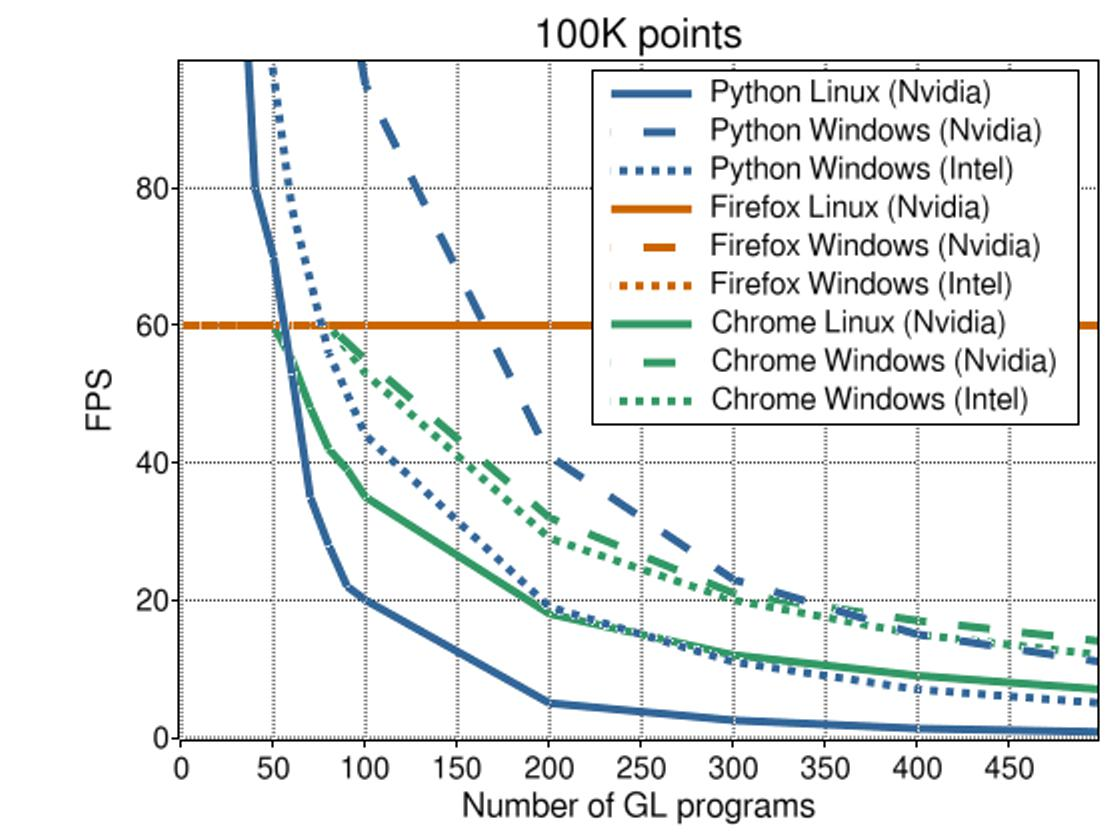
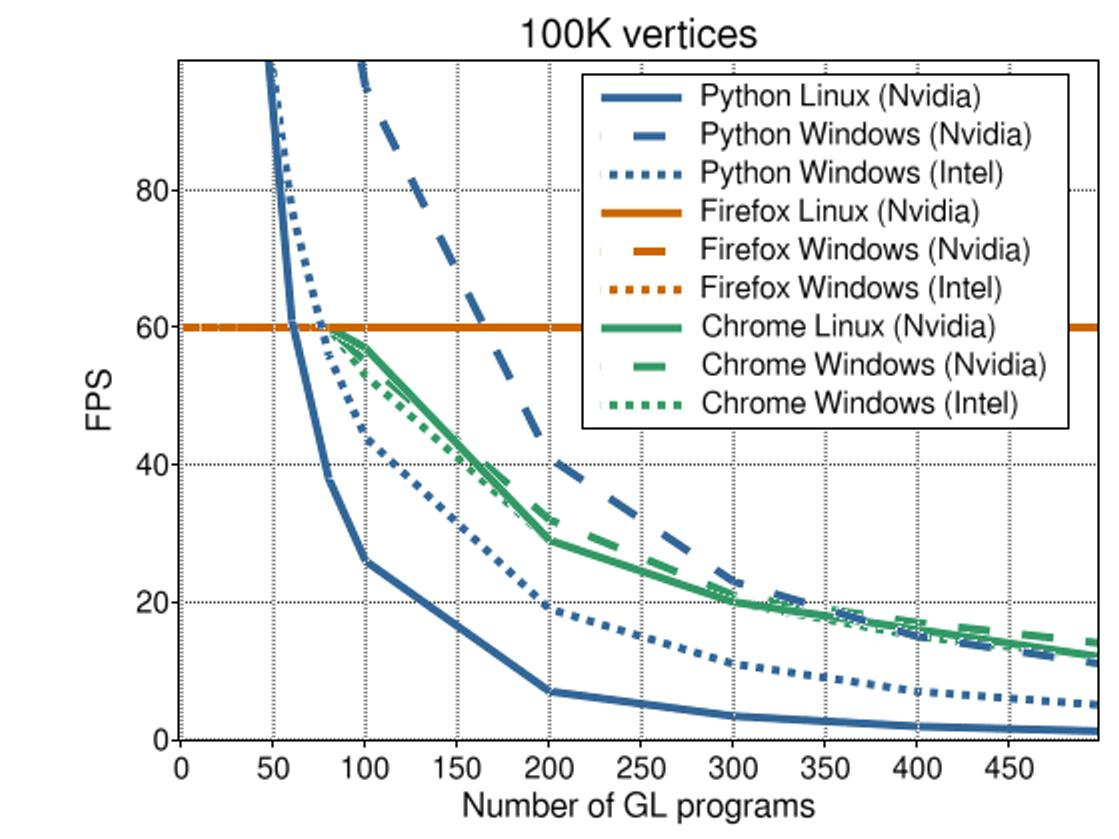
redid some measurements on Linux. plot new results

diff --git a/benchmark_collections_vis.py b/benchmark_collections_vis.py
@@ -5,13 +5,14 @@ import visvis as vv
 from collections import OrderedDict
 
 measurements_100k = OrderedDict()
-measurements_100k['Python Linux (Nvidia)'] = {1:2200, 10:500, 20:250, 30:130, 40:80, 50:70, 60:53, 70:35, 80:28, 90:22, 100:20, 200:5, 300:2.5, 400:1.3, 500:0.8}
+measurements_100k['Python Linux (Nvidia)'] = {1:2700, 10:760, 20:337, 40:121, 60:61, 80:38, 100:26, 200:7, 300:3.4, 400:1.9, 500:1.2}
 measurements_100k['Python Windows (Nvidia)'] = {1:1500, 10:712, 20:470, 40:248, 60:170, 80:125, 100:95, 200:41, 300:23, 400:15, 500:11}
 measurements_100k['Python Windows (Intel)'] = {1:930, 10:365, 20:220, 40:116, 60:77, 80:56, 100:44, 200:19, 300:11, 400:7, 500:5}
 measurements_100k['Firefox Linux (Nvidia)'] = {1:60, 10:60, 20:60, 30:60, 40:60, 50:60, 60:60, 70:60, 80:60, 90:60, 100:60, 200:60, 300:60, 400:60, 500:60}
 measurements_100k['Firefox Windows (Nvidia)'] = {1:60, 10:60, 20:60, 30:60, 40:60, 50:60, 60:60, 70:60, 80:60, 90:60, 100:60, 200:60, 300:60, 400:60, 500:60}
 measurements_100k['Firefox Windows (Intel)'] = {1:60, 10:60, 20:60, 30:60, 40:60, 50:60, 60:60, 70:60, 80:60, 90:60, 100:60, 200:60, 300:60, 400:60, 500:60}
-measurements_100k['Chrome Linux (Nvidia)'] = {1:60, 10:60, 20:60, 30:60, 40:60, 50:60, 60:55, 70:48, 80:42, 90:39, 100:35, 200:18, 300:12, 400:9, 500:7}
+#measurements_100k['Chrome Linux (Nvidia)'] = {1:60, 10:60, 20:60, 30:60, 40:60, 50:60, 60:55, 70:48, 80:42, 90:39, 100:35, 200:18, 300:12, 400:9, 500:7}
+measurements_100k['Chrome Linux (Nvidia)'] = {1:60, 10:60, 20:60, 40:60, 60:60, 80:60, 100:57, 200:29, 300:20, 400:16, 500:12}
 measurements_100k['Chrome Windows (Nvidia)'] = {1:60, 10:60, 20:60, 40:60, 60:60, 80:60, 100:55, 200:32, 300:21, 400:17, 500:14}
 measurements_100k['Chrome Windows (Intel)'] = {1:60, 10:60, 20:60, 40:60, 60:60, 80:60, 100:53, 200:29, 300:20, 400:15, 500:12}
 
@@ -21,14 +22,12 @@ measurements_10m['Firefox Linux (NVidia)'] = {1:40, 10:40, 20:40, 30:40, 40:40, 
 measurements_10m['Chrome Linux (Nvidia)'] = {1:60, 10:60, 20:55, 30:53, 40:40, 50:35, 60:30, 70:30, 80:28, 90:24, 100:22, 200:13, 300:11, 400:9, 500:7}
 
 measurements_100k_buffer = OrderedDict()
-measurements_100k_buffer['Python Linux (Nvidia)'] = {1:2200, 10:770, 20:360, 40:142, 60:78, 80:48, 100:34, 200:10, 300:4.8, 400:2.8, 500:1.7}
+measurements_100k_buffer['Python Linux (Nvidia)'] = {1:2700, 10:780, 20:372, 40:150, 60:80, 80:50, 100:34, 200:11, 300:5, 400:2.8, 500:1.8}
 measurements_100k_buffer['Python Windows (Nvidia)'] = {1:1550, 10:678, 20:424, 40:244, 60:165, 80:125, 100:100, 200:44, 300:27, 400:18, 500:14}
 measurements_100k_buffer['Python Windows (Intel)'] = {1:1570, 10:660, 20:440, 40:244, 60:162, 80:125, 100:99, 200:46, 300:27, 400:19, 500:14}
-measurements_100k_buffer['Chrome Linux (Nvidia)'] = {1:60, 10:60, 20:60, 40:60, 60:57, 80:44, 100:35, 200:18, 300:13, 400:9, 500:9}
+measurements_100k_buffer['Chrome Linux (Nvidia)'] = {1:60, 10:60, 20:60, 40:60, 60:60, 80:60, 100:58, 200:30, 300:20, 400:16, 500:13}
 measurements_100k_buffer['Chrome Windows (Nvidia)'] = {1:60, 10:60, 20:60, 40:60, 60:60, 80:60, 100:60, 200:32, 300:22, 400:17, 500:14}
 measurements_100k_buffer['Chrome Windows (Intel)'] = {1:60, 10:60, 20:60, 40:60, 60:60, 80:60, 100:60, 200:33, 300:22, 400:16, 500:13}
-
-
 
 
 def plot(title, data, colors, linestyles):
@@ -70,3 +69,5 @@ plot('10M vertices', measurements_10m, colors, linestyles)
 colors = [(0.2, 0.4, 0.6), (0.2, 0.4, 0.6), (0.2, 0.4, 0.6), (0.2, 0.6, 0.4), (0.2, 0.6, 0.4), (0.2, 0.6, 0.4),]
 linestyles = '-', '--', ':', '-', '--', ':'
 plot('multi-buffer (100K vertices)', measurements_100k_buffer, colors, linestyles)
+
+# vv.screenshot('benchmark_collections_resultX.jpg', bg='w')

diff --git a/benchmark_collections.py b/benchmark_collections.py
@@ -141,5 +141,6 @@ class CanvasHeavy(BaseCanvas):
 
 
 if __name__ == '__main__':
-    c = CanvasMultiBuffer()
+    #c = CanvasMultiBuffer()
+    c = CanvasMultiProgram()
     app.run()
